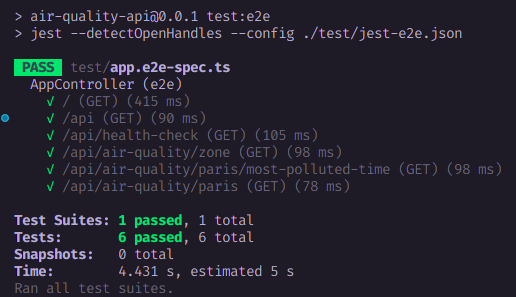
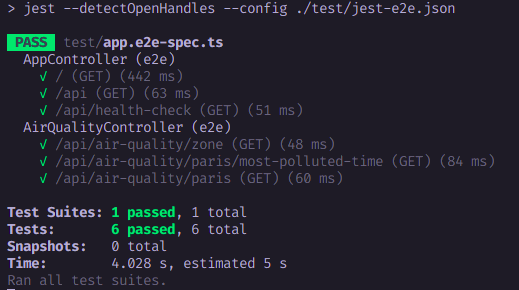
tests: Update e2e tests and its screenshots (#4)

Changed region(s): [[0.0, 0.0, 0.9922, 0.6517], [0.0, 0.7138, 0.5891, 1.0], [0.0, 0.3724, 0.031, 0.4034]]

diff --git a/test/app.e2e-spec.ts b/test/app.e2e-spec.ts
@@ -34,6 +34,19 @@ describe('AppController (e2e)', () => {
       .expect(200)
       .expect({ message: 'Service is healthy !' });
   });
+});
+
+describe('AirQualityController (e2e)', () => {
+  let app: INestApplication;
+
+  beforeEach(async () => {
+    const moduleFixture: TestingModule = await Test.createTestingModule({
+      imports: [AppModule],
+    }).compile();
+
+    app = moduleFixture.createNestApplication();
+    await app.init();
+  });
 
   it('/api/air-quality/zone (GET)', () => {
     return request(app.getHttpServer())
